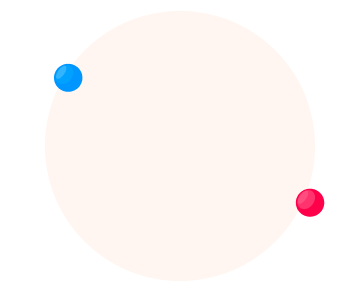
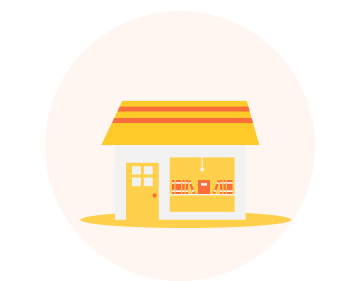
splash screens and sign in sign up

Changed region(s): [[0.2339, 0.3416, 0.848, 0.8256], [0.848, 0.6548, 0.9649, 0.7687], [0.1462, 0.2278, 0.2632, 0.3416]]

diff --git a/app/screens/SplashScreen.js b/app/screens/SplashScreen.js
@@ -9,8 +9,9 @@ import Screen from "../components/Screen";
 import Colors from "../config/Colors";
 
 // images
-import oval1 from "../../assets/images/Illustration.png"
+import oval1 from "../../assets/images/illustration.png"
 import oval2 from "../../assets/images/Oval.png"
+import oval3 from "../../assets/images/oval3.png"
 
 function SplashScreen(props) {
 
@@ -20,20 +21,20 @@ function SplashScreen(props) {
         {
             id: 0,
             image: oval1,
-            title: 'Prime Spots',
-            subHeading: 'Give your products great visibility on RetailSpot',
+            title: 'Make Extra Money',
+            subHeading: 'Make some money from renting spaces on RetailPro',
         },
         {
             id: 1,
             image: oval2,
-            title: 'Great Locations',
-            subHeading: 'Display on the shelves of top retail shops',
+            title: 'Sell Variety',
+            subHeading: 'Earn more selling diverse product lines',
         },
         {
             id: 2,
-            image: oval2,
-            title: 'Offers & Discounts',
-            subHeading: 'Get discounted rates on the spots you have always wanted',
+            image: oval3,
+            title: 'Make more money',
+            subHeading: 'Offer in-store services and earn more money.',
         }
     ]
 
